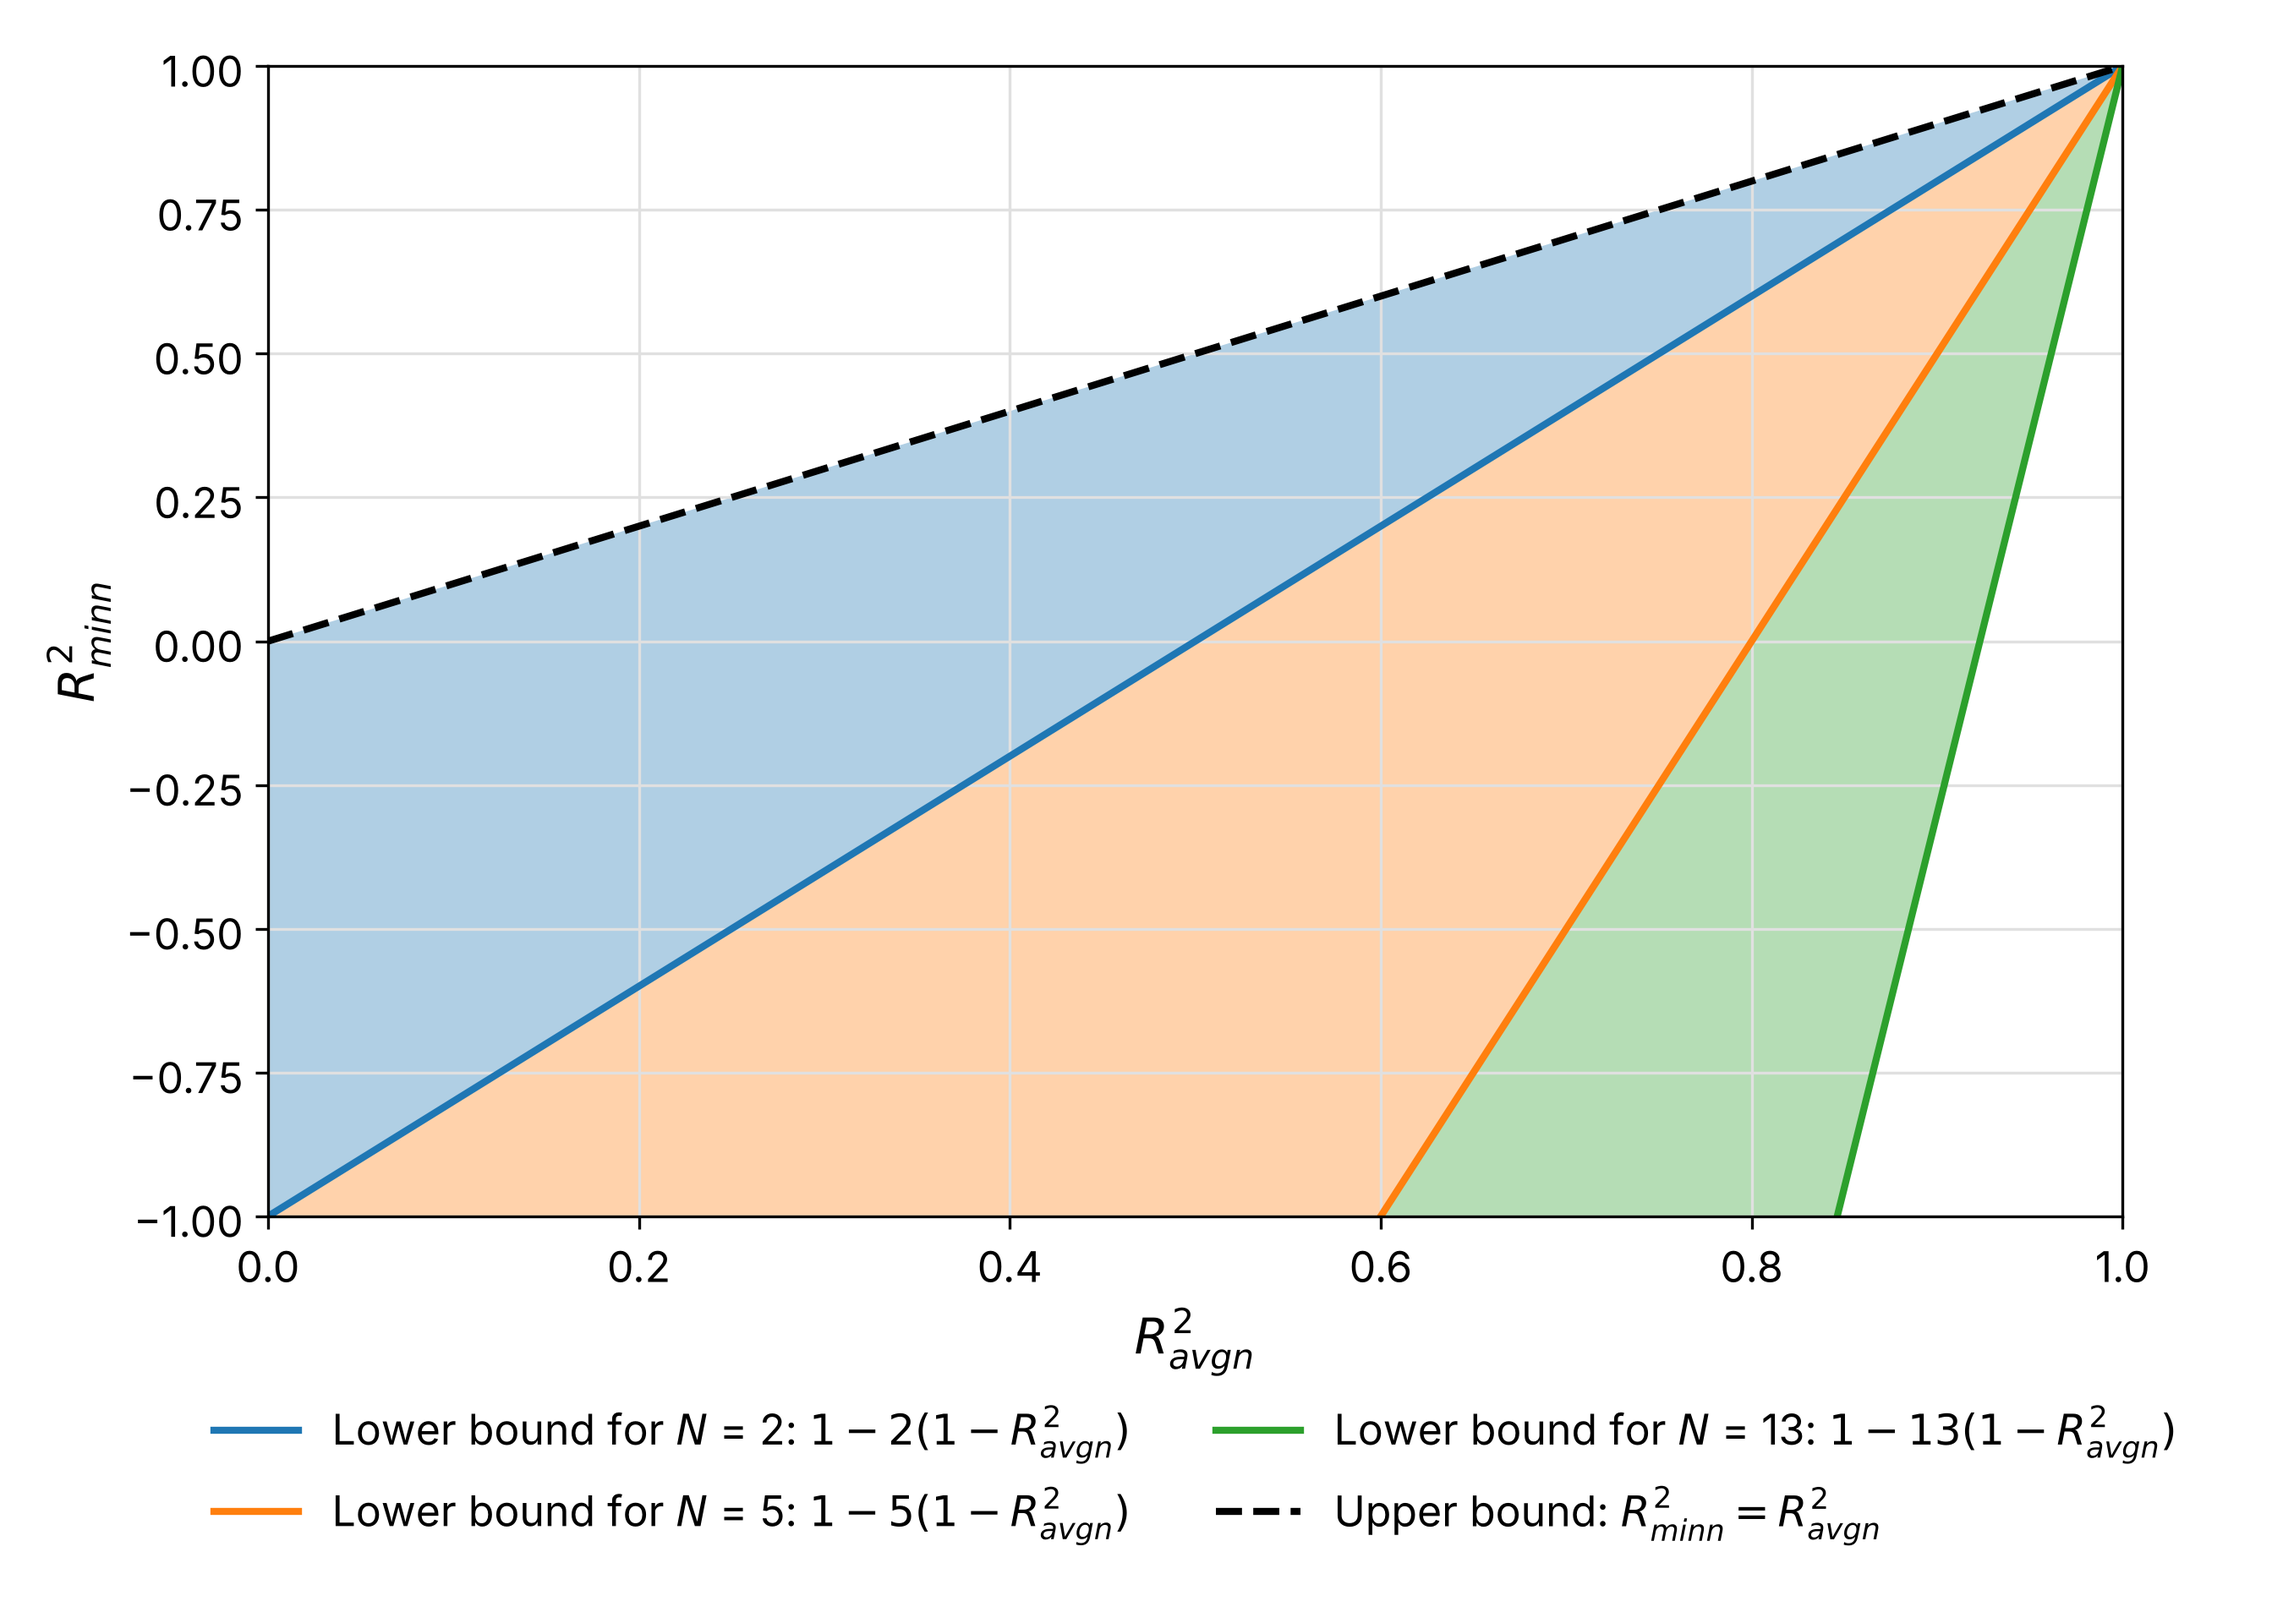
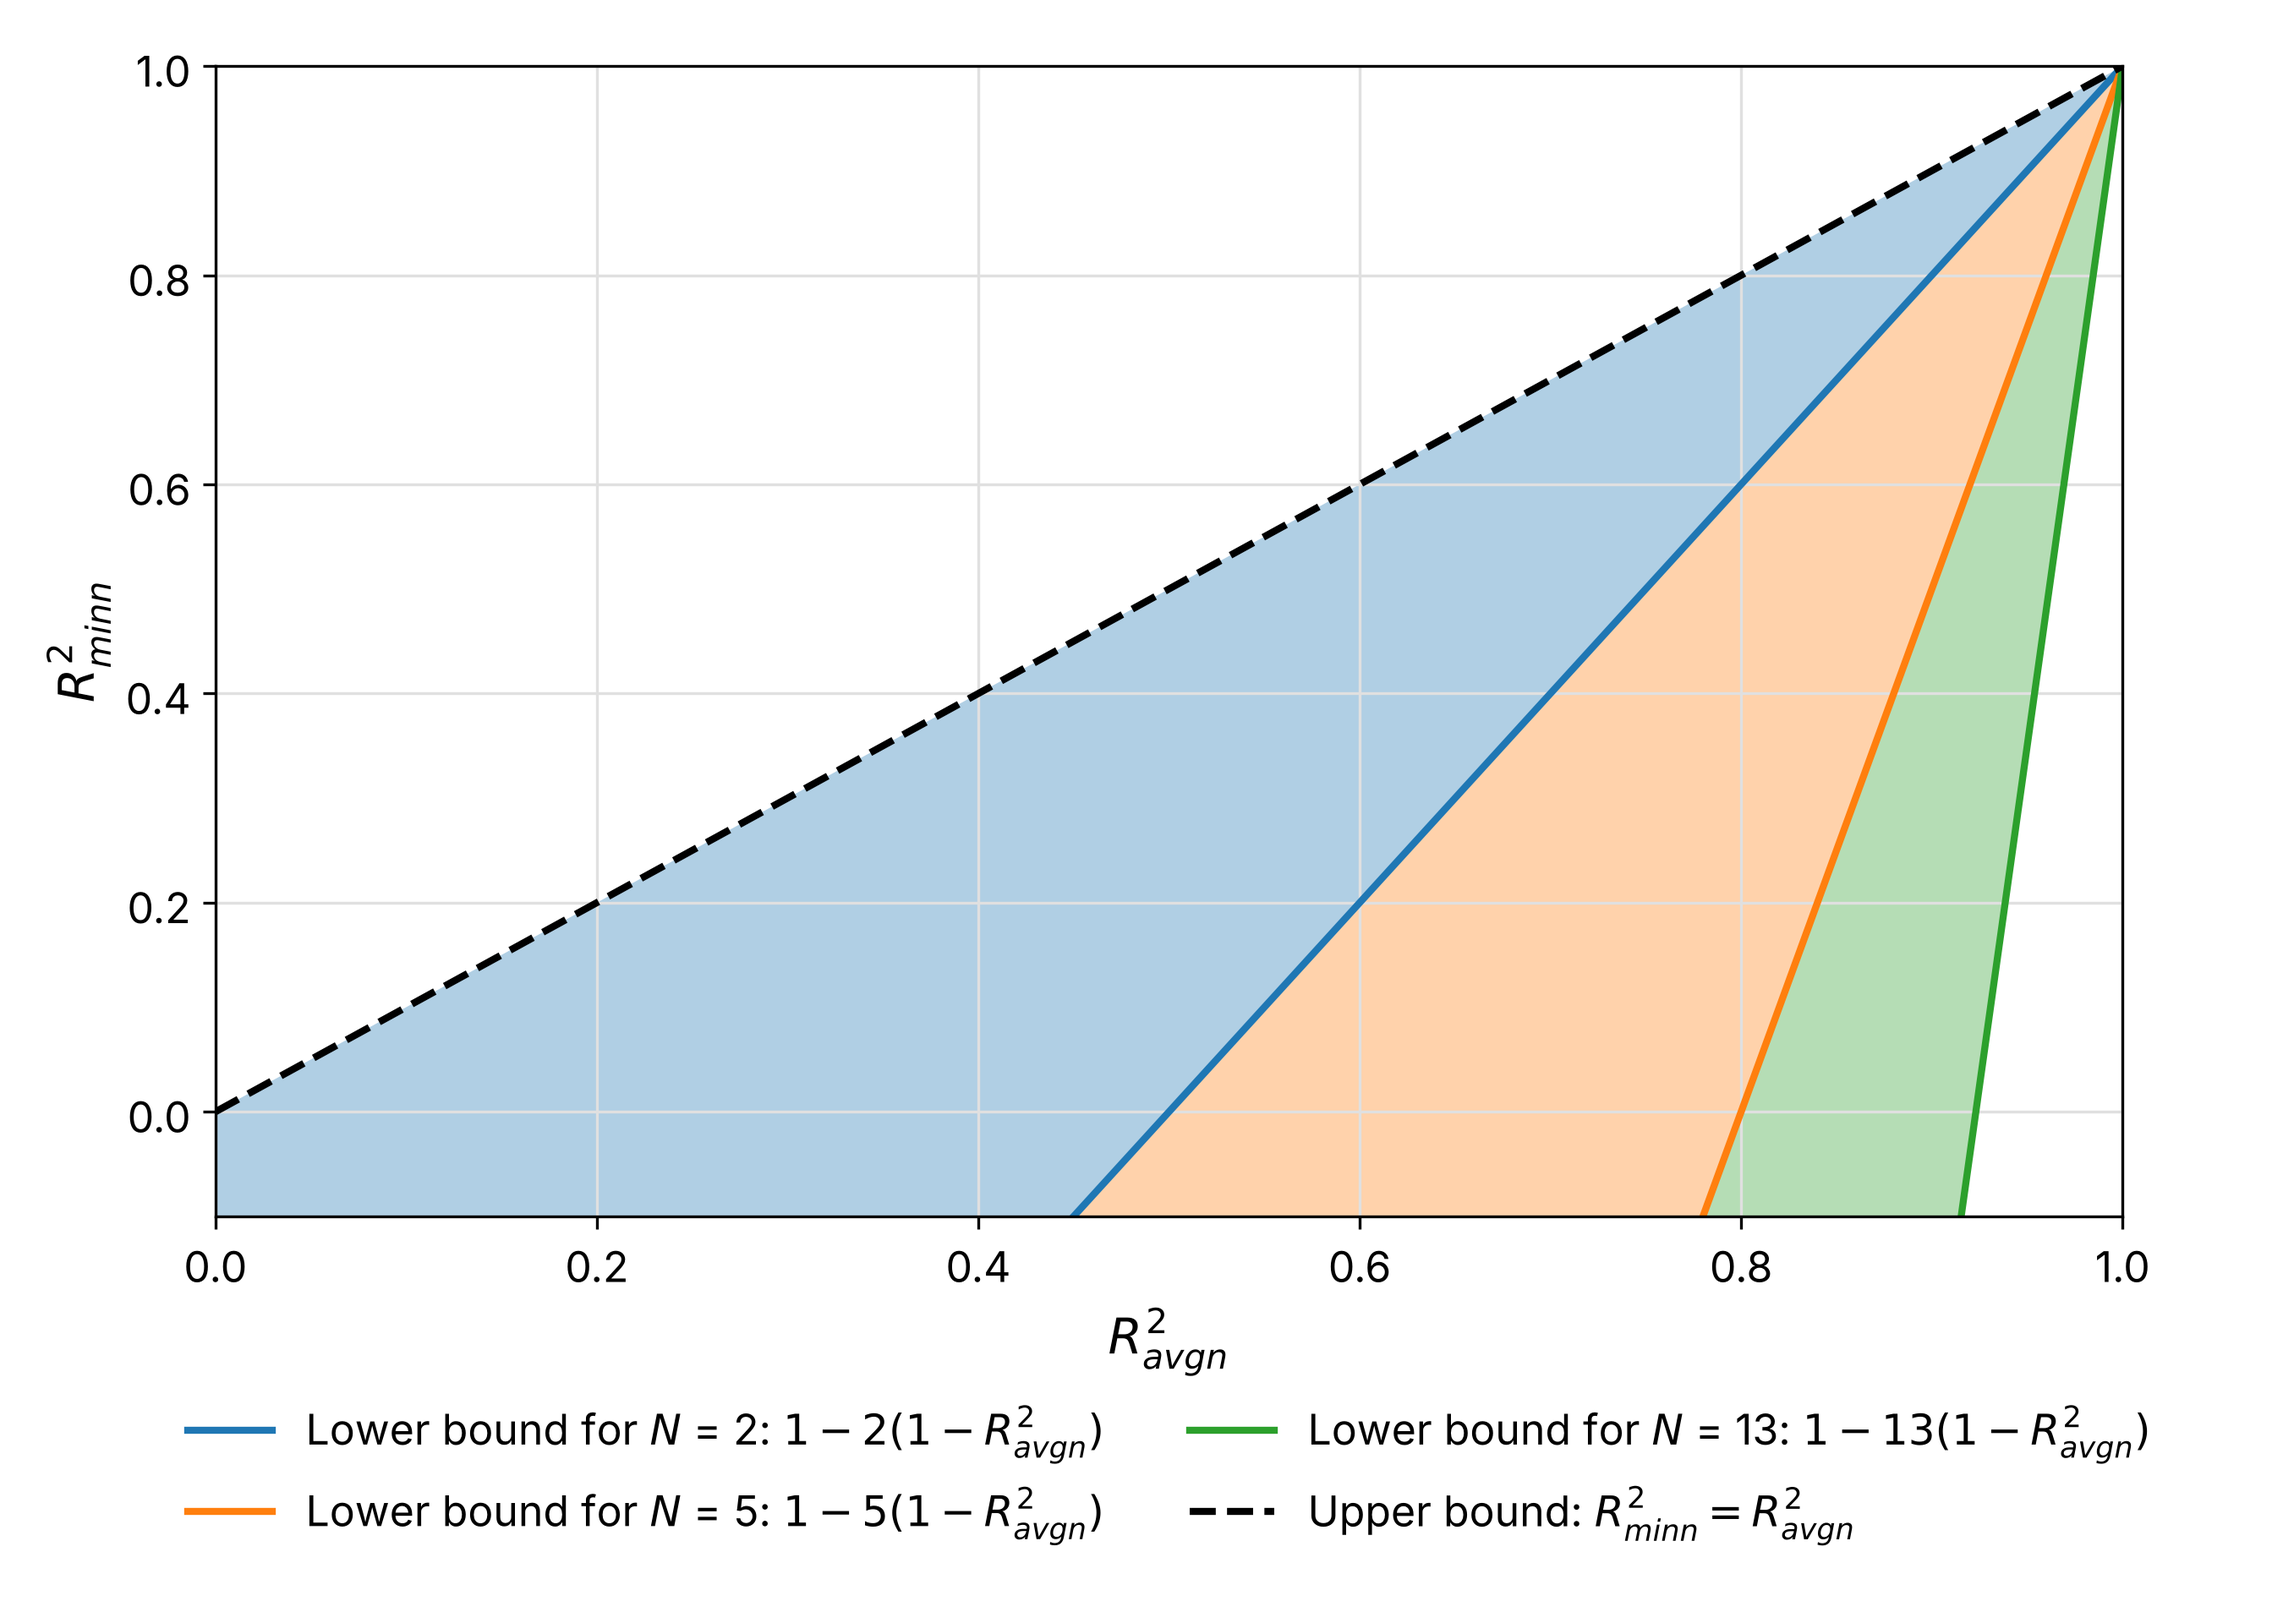
R2 aggregation: split B.3 into Differences and Inequalities, set Fig 1 y-axis minimum to -0.1
Claude-Session: https://claude.ai/code/session_01MWX29AcFYrPTWzeVf6ntur

diff --git a/R2-Aggregation/src/r2_minn_bounds_figure.py b/R2-Aggregation/src/r2_minn_bounds_figure.py
@@ -5,7 +5,7 @@ For a given average of location R2, R2_avgn, eq (26) puts the minimum location R
 1 - N (1 - R2_avgn) and R2_avgn. The figure draws that range as a band over R2_avgn for a few values of N.
 """
 __author__ = 'yRocket'
-__version__ = "0.0.0+20261112"  # Semantic Versioning: Major.Minor.Patch+YYYYMMDD
+__version__ = "0.0.1+20261112"  # Semantic Versioning: Major.Minor.Patch+YYYYMMDD
 
 import argparse
 import pathlib
@@ -23,7 +23,7 @@ FONT_SIZES: dict = {'text': 12.0, 'axis_label': 14.0, 'text_box': 12.0, 'pane_ca
 DPI: int = 300
 N_VALUES: tuple = (2, 5, 13)    # 13 is the number of locations in the measured data of Appendix E
 BAND_COLORS: tuple = (TABLEAU_COLORS['tab:blue'], TABLEAU_COLORS['tab:orange'], TABLEAU_COLORS['tab:green'])
-Y_RANGE: tuple = (-1.0, 1.0)
+Y_RANGE: tuple = (-0.1, 1.0)
 GRID_POINTS: int = 401
 
 

diff --git a/R2-Aggregation/r2-aggregation-ko.md b/R2-Aggregation/r2-aggregation-ko.md
@@ -1,5 +1,5 @@
 # R2 by Aggregation Level
-Version 100 | Created: 2026-11-09 | Updated: 2026-11-12 23:33 UTC
+Version 101 | Created: 2026-11-09 | Updated: 2026-11-12 23:36 UTC
 
 - [1. Purpose](#1-purpose)
 - [2. Summary](#2-summary)
@@ -18,7 +18,8 @@ Version 100 | Created: 2026-11-09 | Updated: 2026-11-12 23:33 UTC
 - [Appendix B. Mathematical Derivations](#appendix-b-mathematical-derivations)
   - [B.1 Sums of Squares](#b1-sums-of-squares)
   - [B.2 Core Identities](#b2-core-identities)
-  - [B.3 Differences and Inequalities](#b3-differences-and-inequalities)
+  - [B.3 Differences](#b3-differences)
+  - [B.4 Inequalities](#b4-inequalities)
 - [Appendix C. Variance Decomposition and Correlation](#appendix-c-variance-decomposition-and-correlation)
   - [C.1 Two-way Decomposition](#c1-two-way-decomposition)
   - [C.2 Aggregate Cross-location Correlation](#c2-aggregate-cross-location-correlation)
@@ -222,7 +223,7 @@ SST, SSE, R² 의 아래첨자 $`\mathrm{all}`$ 은 측정값 $`T`$ 개, $`\math
 > \hspace{19em} (28)
 > ```
 
-증명은 [B.3](#b3-differences-and-inequalities) 에 있다.
+증명은 [B.4](#b4-inequalities) 에 있다.
 
 식 (27) 의 양변에 $`1 - R^2_{\mathrm{avgn}}`$ 을 곱하면, 최악 측정 위치의 FVU 가 아래 식 (29) 와 같이 오차 집중도와 측정 위치 FVU 의 평균의 곱으로 정확히 나뉜다.
 
@@ -349,7 +350,7 @@ R^2_{\mathrm{wavgn}} \le \max_{j} R^2_j
 
 Fig 1. Range of the minimum location R2 for each number of locations
 
-- 가로축은 R2_avgn, 세로축은 R2_minn 이며, 세로축은 -1 부터 1 까지만 그렸다. 검은 점선은 위쪽 범위 $`R^2_{\mathrm{minn}} = R^2_{\mathrm{avgn}}`$ 이고, 파란, 주황, 초록 실선은 $`N`$ = 2, 5, 13 의 아래쪽 범위 $`1 - N(1 - R^2_{\mathrm{avgn}})`$ 이다.
+- 가로축은 R2_avgn, 세로축은 R2_minn 이며, 세로축은 -0.1 부터 1 까지만 그렸다. 검은 점선은 위쪽 범위 $`R^2_{\mathrm{minn}} = R^2_{\mathrm{avgn}}`$ 이고, 파란, 주황, 초록 실선은 $`N`$ = 2, 5, 13 의 아래쪽 범위 $`1 - N(1 - R^2_{\mathrm{avgn}})`$ 이다.
 - $`N`$ 이 정해지면 $`R^2_{\mathrm{minn}}`$ 은 검은 점선과 그 $`N`$ 의 실선 사이에 있다. 색 띠는 $`N`$ 이 2 에서 5, 5 에서 13 으로 커질 때 그 범위가 아래로 넓어지는 부분이다.
 - 아래쪽 범위는 $`R^2_{\mathrm{avgn}} = 1 - 1/N`$ 에서 0 이 되며, 그 값은 $`N`$ = 2 에서 0.5, $`N`$ = 5 에서 0.8, $`N`$ = 13 에서 0.9231 이다. R2_avgn 이 그보다 작으면 식 (26) 만으로는 $`R^2_{\mathrm{minn}} \ge 0`$ 이 보장되지 않는다.
 
@@ -526,7 +527,7 @@ R^2_{\mathrm{wavgn}} = \sum_{j=1}^{N} \omega_j R^2_j
 \hspace{19em} (36)
 ```
 
-### B.3 Differences and Inequalities
+### B.3 Differences
 
 식 (37) 부터 식 (41) 은 식 (21), 식 (22) 의 $`R^2_{\mathrm{wavgn}} = 1 - q`$ 와 식 (32), 식 (33), 식 (34) 에서 두 식을 빼어 얻는다. 따라서 식 (37) 부터 식 (41) 이 성립한다. Table 2 의 조건은 $`q \gt 0`$ 에서 각 차이의 부호를 본 것이다.
 
@@ -554,6 +555,8 @@ R^2_{\mathrm{all}} - R^2_{\mathrm{avgn}} = \lambda\, q + \delta
 R^2_{\mathrm{avgw}} - R^2_{\mathrm{avgn}} = (1 - \kappa)\, q + \delta
 \hspace{19em} (41)
 ```
+
+### B.4 Inequalities
 
 ```math
 R^2_{\mathrm{wavgn}} - \min_{k} R^2_k = \sum_{j=1}^{N} \omega_j \left( R^2_j - \min_{k} R^2_k \right)
